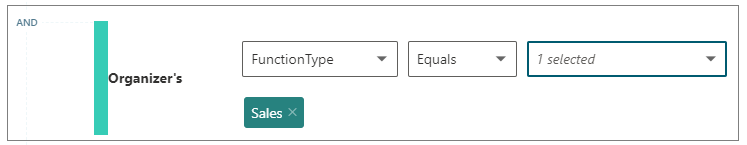
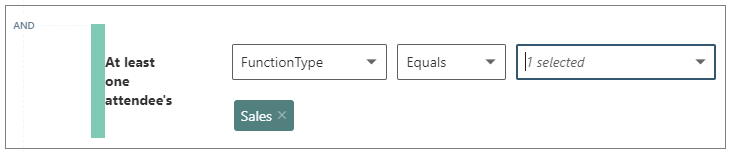
many edits

diff --git a/WorkplaceAnalytics/Tutorials/analyze-business-processes.md b/WorkplaceAnalytics/Tutorials/analyze-business-processes.md
@@ -17,7 +17,7 @@ When you and your co-workers perform an organized series of steps to reach a goa
 
 You can improve your business processes by analyzing them; for example, by measuring their cost in time and money. For example, your business might conduct an information-security audit from time to time. Your CFO or CIO might want to know whether too little, too much, or just the right amount of time is being spent on these audits, and whether the right roles of employees have been participating in them.
 
-To make these determinations, conduct an analysis by running a Workplace Analytics query in which you designate the business process (such as hiring or auditing) as a [metric filter](../use/metric-filters.md) for the query. <!-- *** CALL THESE NEW FILTERS OUT IN THAT TOPIC *** --> To improve the query's accuracy, you first define a _data set_ to limit the data that the query examines.
+To make these determinations, conduct an analysis by running a Workplace Analytics query in which you designate the business process (such as hiring or auditing) as a [metric filter](../use/metric-filters.md) for the query. <!-- *** CALL THESE NEW FILTERS OUT IN THAT TOPIC *** --> 
 
 Here are the procedures to follow to analyze a business process:
 
@@ -38,9 +38,9 @@ The following sections describe these procedures.
 
 ## Define a data set
 
-Before you define a business process, you need to select the data set that's applicable to that process. For example, you might want to answer this question: “How do our sales reps interact with their customers?”
+Before you define a business process, you need to select the data set that's applicable to that process. For example, you might want to answer this question: "How much time does our sales team spend in sales pipeline activities?"
 
-You start by limiting the data set for your query by keeping only the organizational data that applies to the analysis &ndash; in this case, meetings that were organized by people in Sales.
+You start by limiting the data set for your query by keeping only the organizational data that applies to the analysis &ndash; in this case, meetings that were attended by at least one sales representative.
 
 To define a data set, use the following procedure:
 
@@ -50,7 +50,7 @@ To define a data set, use the following procedure:
 
 Every business process that you create must be based on a data set. For that reason, creating at least one data set is mandatory before you can proceed to [Define a business process](#define-a-business-process). 
 
-In this example, we restrict the analysis data to meetings of a particular length that were organized by the Sales division.
+In this example, we restrict the analysis data to meetings of a particular length that were attended by at least one Sales representative.
 
 1. In Workplace Analytics, on the left navigation pane, expand **Analyze** and select **Business process analysis**.
 
@@ -74,9 +74,9 @@ In this example, we restrict the analysis data to meetings of a particular lengt
 
 8. In the boxes to the right of **Meeting's**, select **Duration (in hours)**, **<** (less than), and **0.5** (hours).
 
-9. On the next line, select **Organizer**. This lets us choose the work function (in this case, sales) of the meeting organizer.
+9. On the next line, select **Attendee**. This lets us choose the work function (in this case, sales) of meeting attendees.
 
-   ![Add an Organizer filter](../images/wpa/tutorials/organizer.png)
+   ![Add an Attendee filter](../images/wpa/tutorials/attendee.png)
 
 10. In the boxes to the right of **Organizer's**, select **FunctionType**, **Equals**, and **Sales**. (The choices that are available are determined by the [organizational data](../setup/prepare-organizational-data.md) that the Workplace Analytics admin has uploaded.)
 
@@ -88,7 +88,7 @@ In this example, we restrict the analysis data to meetings of a particular lengt
 
 ### Data set statuses
 
-Right after you select **Submit**, the data set has a status of "In progress"; after it is processed (in the weekly processing schedule of Workplace Analytics), its status changes to "Ready" and you can use it in business-definition processes and analyses. If data-set creation fails, the data set changes to "Failed" status. (If a data set that you've submitted shows "Failed" status, you can request help by [contacting Workplace Analytics support](../overview/getting-support.md).)
+Right after you select **Submit**, the data set has a status of "In progress"; after it is processed (during the weekly processing schedule of Workplace Analytics), its status changes to "Ready" and you can use it in business-process definitions and analyses. If data-set creation fails, the data set changes to "Failed" status. (If a data set that you've submitted shows "Failed" status, you can request help by [contacting Workplace Analytics support](../overview/getting-support.md).)
 
 You can find a list of existing data sets and their statuses on the **Data sets** tab of the **Analyze** > **Business process analysis** page of Workplace Analytics:
 
@@ -111,7 +111,7 @@ Before you can run queries to analyze a business process within your organizatio
 
 ### Business process steps
 
-In this example, we want to examine meetings of a particular length that the Sales division held. To make sure that the data we use is restricted to the correct division, we'll use the "SalesDataSet" that we defined in [Data set steps](#data-set-steps).
+In this example, we want to examine meetings of a particular length that Sales reps attended. To make sure that the data we use is restricted to the correct division, we'll use the "SalesDataSet" that we defined in [Data set steps](#data-set-steps).
 
 We will describe the creation of a business process in two procedures:
 
@@ -159,7 +159,7 @@ As an analyst, your goal now is to find the keywords that most effectively repre
    >[!Note]
    >The Rank column indicates relevance ranking. In the preceding illustration, a rank of 1 indicates that the "account" keyword is the most relevant to the specified search term "purchase." The concept is similar to the ranking in web-page search results.
 
-3. Scan the words in the **Keyword** column. Which ones do you find relate most closely to the concept of "Sales interactions" (the business process to be analyzed)?
+3. Scan the words in the **Keyword** column. Which ones do you find relate most closely to the concept of "Sales activities" (the business process to be analyzed)?
 
    To make sure you're looking at relevant content, you can examine these terms more closely in either of two ways:
 
@@ -214,7 +214,7 @@ Business processes can have the following status:
  
 * <u>In progress</u> &ndash; You've selected **Submit** and the business process is being processed by the system. The business process completes processing during the regular weekly processing of Workplace Analytics.
 
-* <u>Ready</u> &ndash; The business process has been successfully processed and can be used in Workplace Analytics by an analyst in the same partition.
+* <u>Ready</u> &ndash; The business process has been successfully processed and can be used in queries in Workplace Analytics by an analyst in the same partition.
 
 * <u>Failed</u> &ndash; The processing of the business process failed. (If a business process that you've submitted shows "Error" status, you can request help by [contacting Workplace Analytics support](../overview/getting-support.md).)
 
